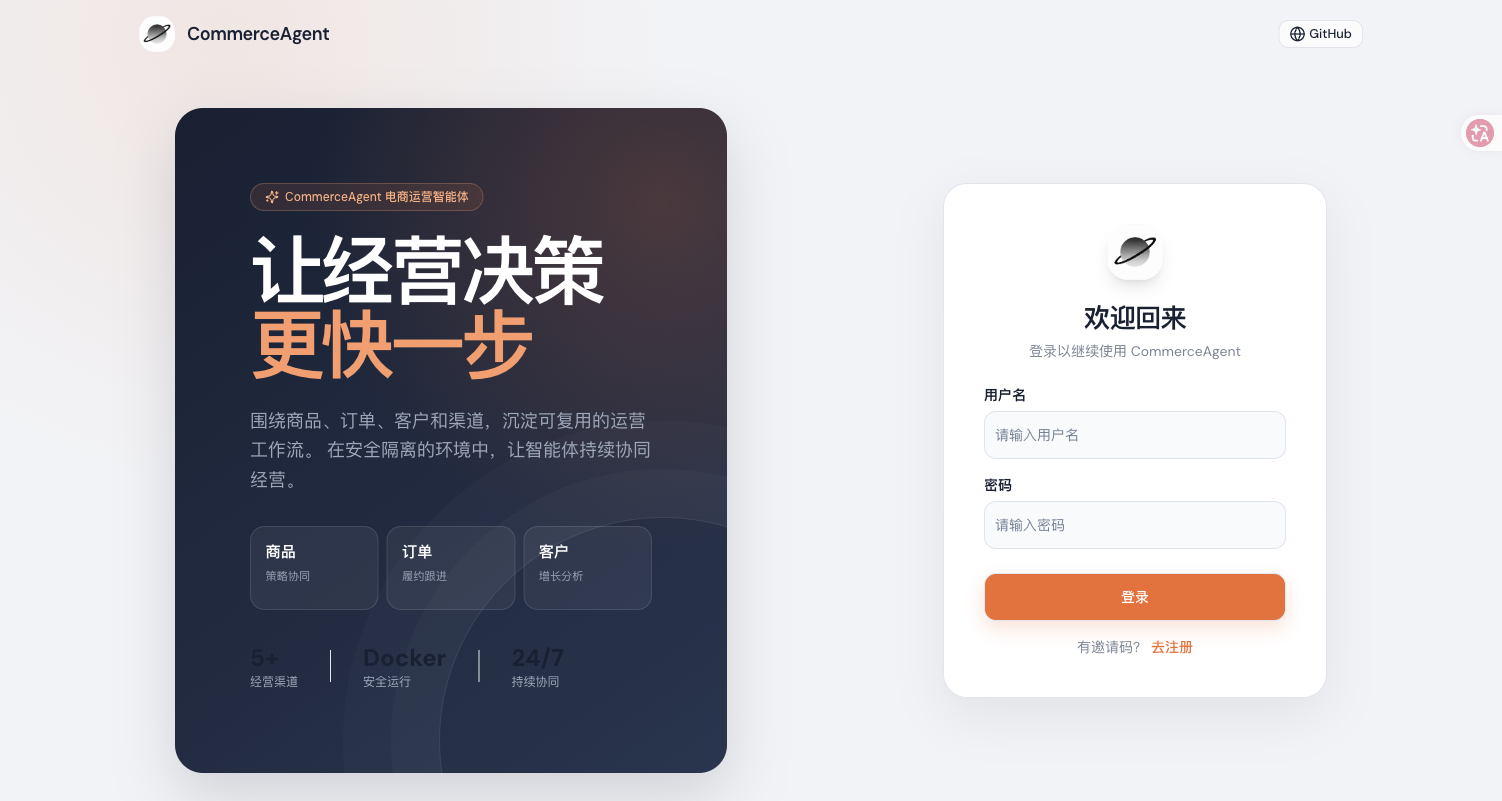
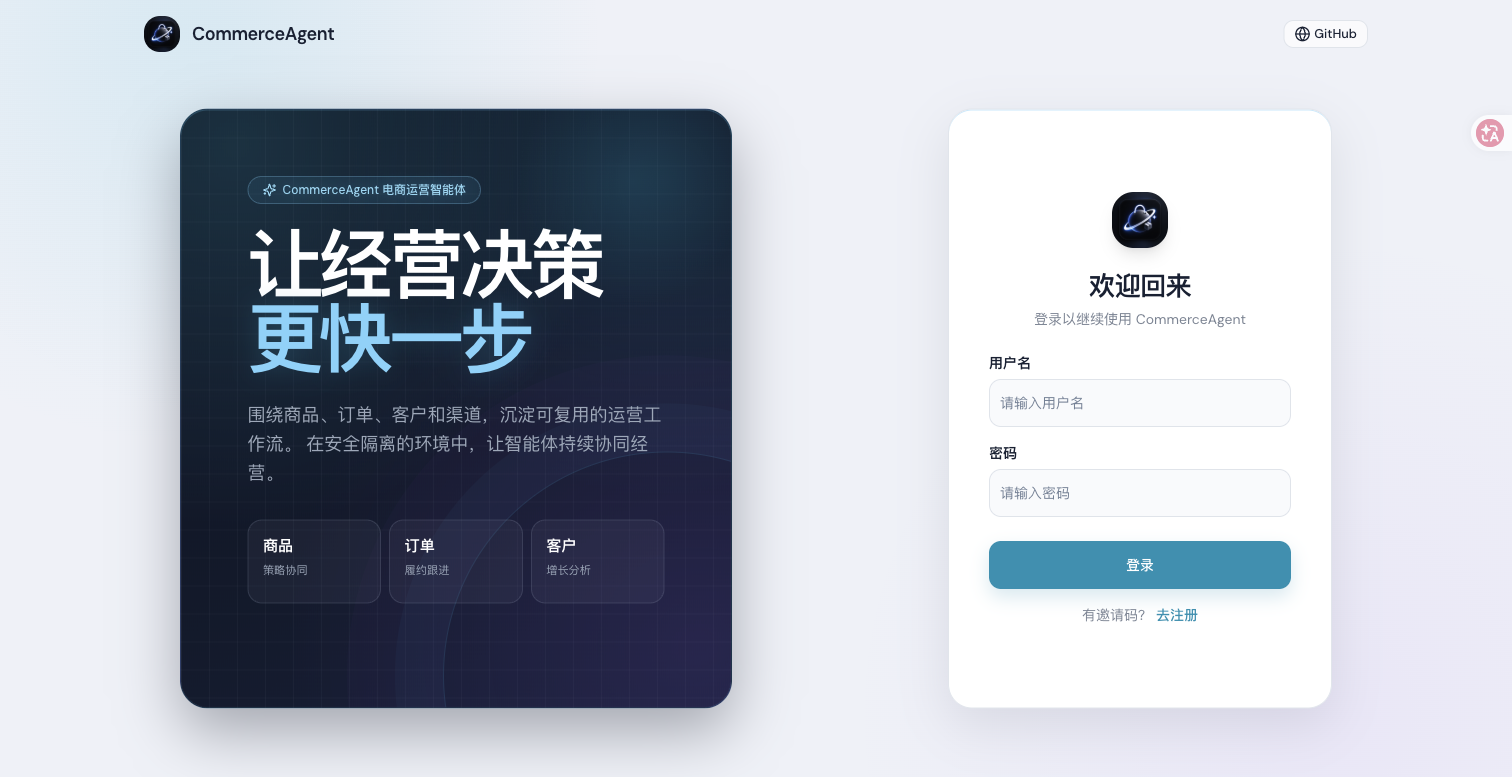
docs(readme): 更新页面预览截图并补齐进入后的功能页
- 替换过期的登录页截图（旧橙色主题 → 新的克制赛博青主题 + 新图标）
- 新增 6 张功能页截图：运营工作台、运营智能体、运营能力（Skills/MCP/
  Plugins）、任务中心、数据分析、系统设置，按 2 列画廊排布并附说明
- 每张图都包一层链接，GitHub 上可点击查看全尺寸

diff --git a/README.md b/README.md
@@ -46,7 +46,26 @@ CommerceAgent 是一个基于 [Claude Agent SDK for TypeScript](https://github.c
 
 ## 页面预览
 
-![CommerceAgent 登录页](docs/screenshots/login.png)
+### 登录页
+
+[![CommerceAgent 登录页](docs/screenshots/login.png)](docs/screenshots/login.png)
+
+### 进入之后
+
+| 运营工作台 | 运营智能体 |
+| --- | --- |
+| [![运营工作台](docs/screenshots/workbench.png)](docs/screenshots/workbench.png) | [![运营智能体](docs/screenshots/agents.png)](docs/screenshots/agents.png) |
+| 与智能体协作的工作区：会话、工作区文件与执行环境 | 管理智能体身份、模型与能力边界 |
+
+| 运营能力（Skills / MCP / Plugins） | 任务中心（定时任务） |
+| --- | --- |
+| [![运营能力](docs/screenshots/capabilities.png)](docs/screenshots/capabilities.png) | [![任务中心](docs/screenshots/tasks.png)](docs/screenshots/tasks.png) |
+| 按工作区装配 Skill、MCP Server 与插件 | 定义定时任务并把结果投递回渠道 |
+
+| 数据分析（用量与成本） | 系统设置 |
+| --- | --- |
+| [![数据分析](docs/screenshots/usage.png)](docs/screenshots/usage.png) | [![系统设置](docs/screenshots/settings.png)](docs/screenshots/settings.png) |
+| 用量、成本与运行状态统计 | 模型提供商、渠道、用户与安全配置 |
 
 CommerceAgent 不是一个简单的聊天 API Wrapper。智能体运行在真实的 Claude Code 环境中，可以读写项目文件、执行终端命令、使用浏览器、调用 MCP、加载 Skills，并在多个独立工作区和会话之间保持清晰的权限与上下文边界。
 
